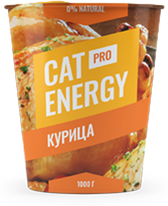
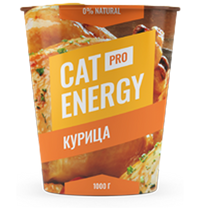
исправляет изображение товара

diff --git a/source/styles/blocks/card.scss b/source/styles/blocks/card.scss
@@ -44,10 +44,6 @@
   }
 }
 
-.card__img {
-  max-height: 210px;
-}
-
 .card__title {
   @include font-params-mobile(16px, 20px);
   max-width: 55%;
